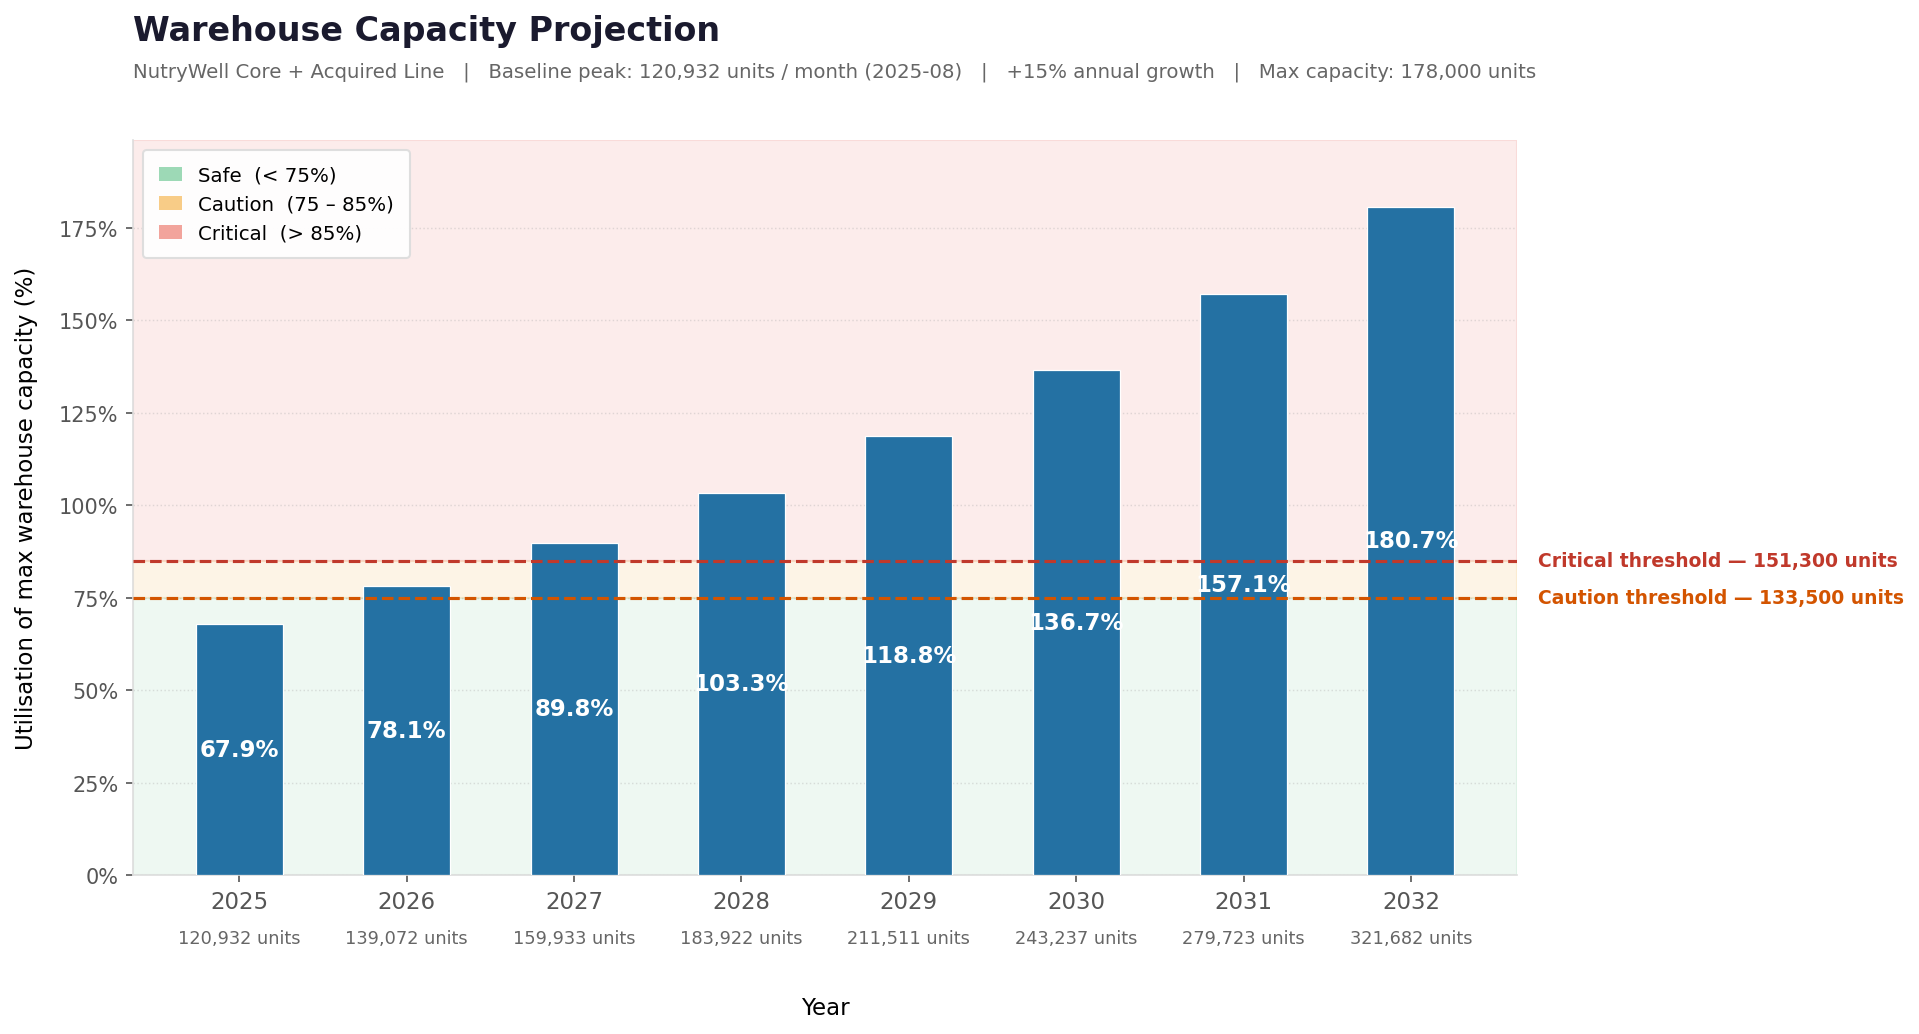
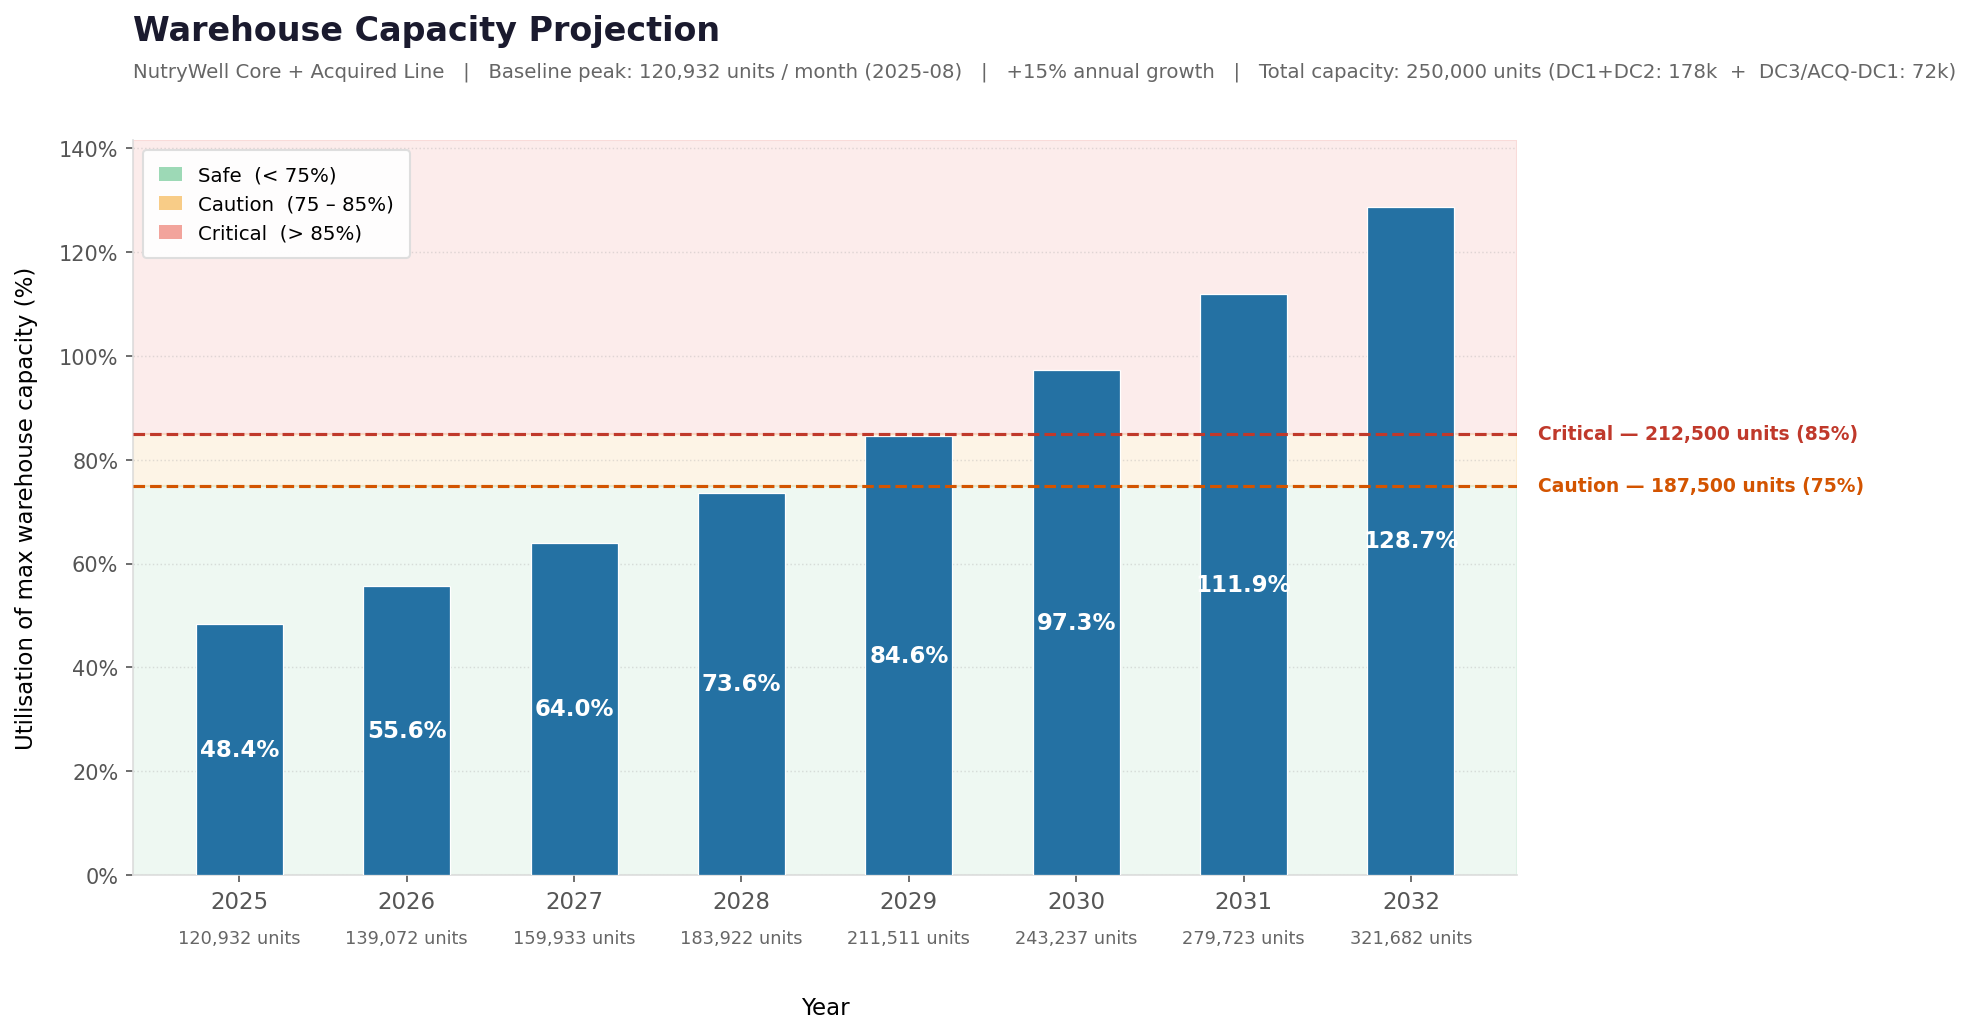
Update the current situation to take into account the DC3 = AQ DC1

diff --git a/Info_W2/Analysis 2/scalability_issue.py b/Info_W2/Analysis 2/scalability_issue.py
@@ -154,12 +154,12 @@ print("="*60)
 # STEP 2 – CAPACITY PROJECTION (15% annual growth)
 # =============================================================================
 
-MAX_CAPACITY   = 178_000   # max warehouse units
+MAX_CAPACITY   = 250_000   # BE-DC1 + BE-DC2 (178k) + BE-DC3/ACQ-DC1 (72k)
 WARN_PCT       = 0.75      # caution threshold
 CRIT_PCT       = 0.85      # critical threshold
 GROWTH_RATE    = 0.15      # annual growth rate
-WARN_LIMIT     = MAX_CAPACITY * WARN_PCT   # 133,500 units
-CRIT_LIMIT     = MAX_CAPACITY * CRIT_PCT   # 151,300 units
+WARN_LIMIT     = int(MAX_CAPACITY * WARN_PCT)   # 187,500 units
+CRIT_LIMIT     = int(MAX_CAPACITY * CRIT_PCT)   # 212,500 units
 
 # ── monthly unit demand per scenario ─────────────────────────────────────────
 # "Month" was added to combined in Step 1; derive it for nw_period separately
@@ -187,9 +187,9 @@ def capacity_projection(peak, avg, label, start_year=2025):
     print(f"\n{'-'*72}")
     print(f"  Scenario: {label}")
     print(f"{'-'*72}")
-    print(f"  Max warehouse capacity  : {MAX_CAPACITY:>10,} units")
-    print(f"  Caution threshold (75%) : {WARN_LIMIT:>10,.0f} units")
-    print(f"  Critical threshold (85%): {CRIT_LIMIT:>10,.0f} units")
+    print(f"  Max warehouse capacity        : {MAX_CAPACITY:>10,} units  (DC1+DC2: 178k  +  DC3/ACQ-DC1: 72k)")
+    print(f"  Caution threshold  (75% cap) : {WARN_LIMIT:>10,} units")
+    print(f"  Critical threshold (85% cap) : {CRIT_LIMIT:>10,} units")
     print(f"  Baseline peak month     : {peak:>10,.0f} units")
     print(f"  Baseline avg  month     : {avg:>10,.0f} units")
     print(f"  Annual growth rate      : {GROWTH_RATE*100:.0f}%")
@@ -266,12 +266,15 @@ print(f"  Current peak month (core only)     : {peak_nw:>8,.0f} units"
 print(f"  Current peak month (incl. acquired): {peak_all:>8,.0f} units"
       f"  ({peak_all/MAX_CAPACITY*100:.1f}% of capacity)  [{peak_month_all}]")
 print()
-print("  At 15% annual growth, capacity planning is urgent:")
-print(f"    Core only      - CAUTION zone reached in ~2 years, CRITICAL in ~3 years")
-print(f"    With acq. line - CAUTION zone reached in ~1 year,  CRITICAL in ~2-3 years")
+print(f"  Total capacity : {MAX_CAPACITY:,} units  (DC1+DC2: 178k  +  DC3/ACQ-DC1: 72k)")
+print(f"  Caution (75%)  : {WARN_LIMIT:,} units   |   Critical (85%): {CRIT_LIMIT:,} units")
 print()
-print("  Recommendation: if 15% growth materialises, NutryWell must plan")
-print("  warehouse expansion or outsourcing BEFORE the caution threshold is hit.")
+print("  At 15% annual growth (Core + Acquired Line, peak-month basis):")
+print("    CAUTION zone (75%)  reached in 2029  (+4 years)")
+print("    CRITICAL zone (85%) reached in 2030  (+5 years)")
+print()
+print("  With the expanded DC network (250k) NutryWell gains ~2 extra years of")
+print("  runway vs the original 178k footprint. Plan DC expansion from 2028.")
 print(f"{'='*72}")
 
 # =============================================================================
@@ -333,11 +336,11 @@ ax.axhline(75,  color="#d35400", linewidth=1.5, linestyle="--", zorder=4)
 # draw outside the axes box into the right margin)
 common = dict(xycoords=("axes fraction", "data"), textcoords="offset points",
               xytext=(10, 0), va="center", ha="left", clip_on=False)
-ax.annotate(f"Critical threshold — {CRIT_LIMIT:,.0f} units",
+ax.annotate(f"Critical — {CRIT_LIMIT:,} units (85%)",
             xy=(1.0, 85), fontsize=9, color="#c0392b",
             fontweight="bold", **common)
-ax.annotate(f"Caution threshold — {WARN_LIMIT:,.0f} units",
-            xy=(1.0, 75),  fontsize=9, color="#d35400",
+ax.annotate(f"Caution — {WARN_LIMIT:,} units (75%)",
+            xy=(1.0, 75), fontsize=9, color="#d35400",
             fontweight="bold", **common)
 
 # ── axes formatting ───────────────────────────────────────────────────────────
@@ -373,7 +376,7 @@ fig.text(0.08, 0.915,
          f"NutryWell Core + Acquired Line   |   "
          f"Baseline peak: {peak_all:,.0f} units / month ({peak_month_all})   |   "
          f"+{GROWTH_RATE*100:.0f}% annual growth   |   "
-         f"Max capacity: {MAX_CAPACITY:,} units",
+         f"Total capacity: {MAX_CAPACITY:,} units (DC1+DC2: 178k  +  DC3/ACQ-DC1: 72k)",
          fontsize=9.5, va="top", ha="left", color="#666666")
 
 plt.savefig("Info_W2/Analysis 2/capacity_projection.png", dpi=150, bbox_inches="tight")
